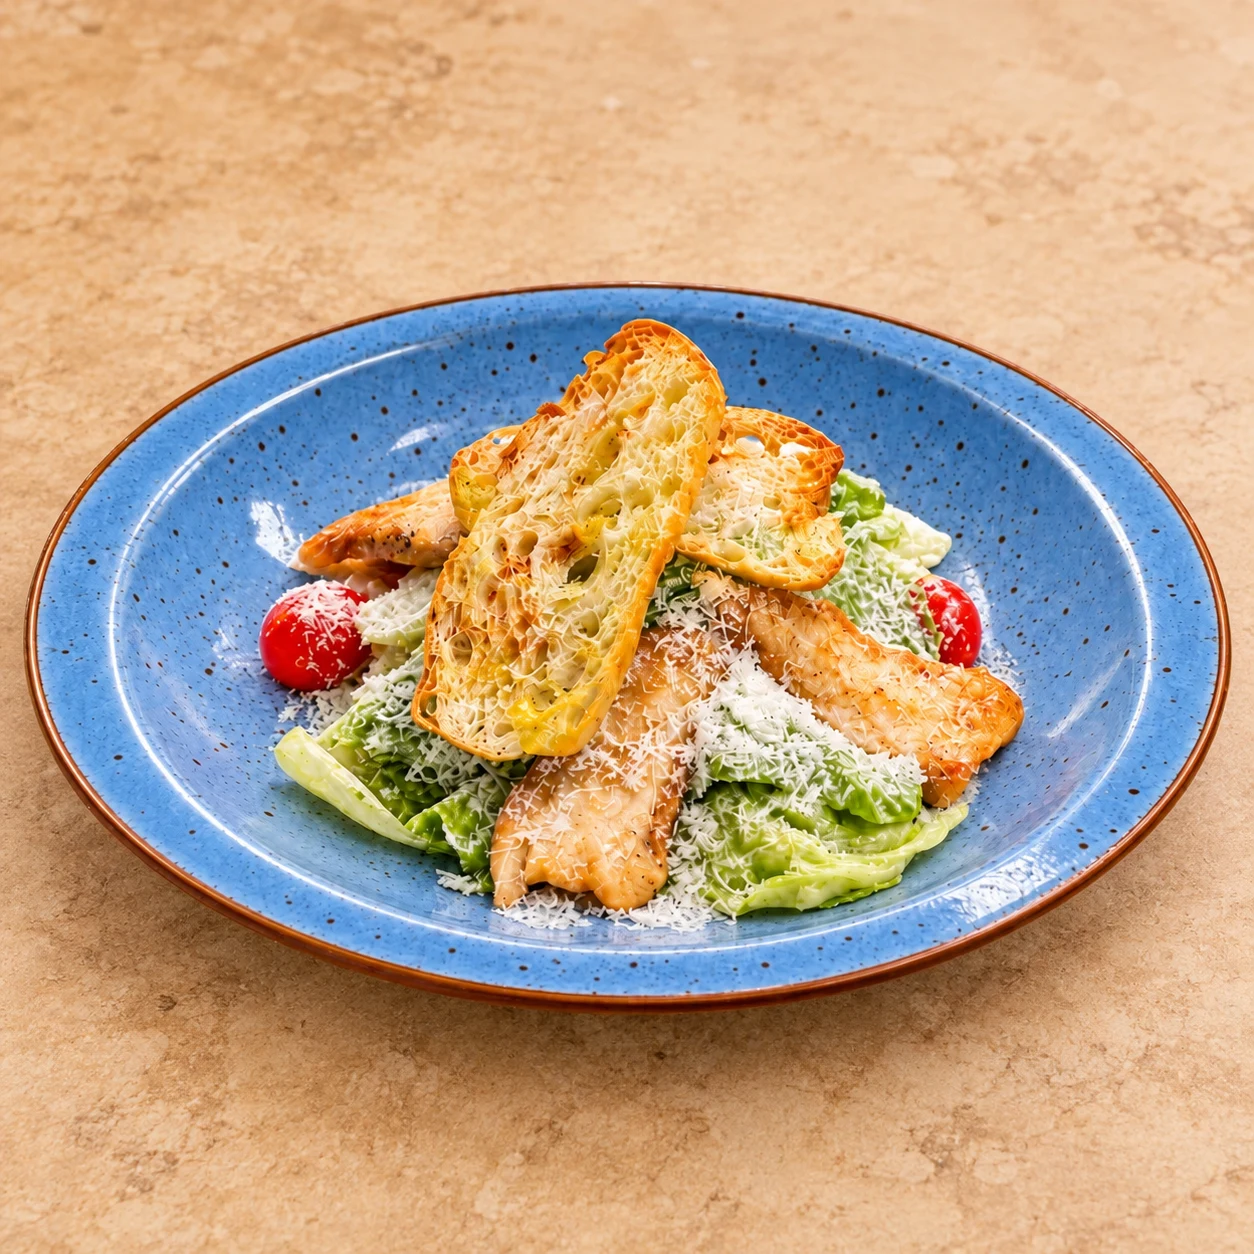
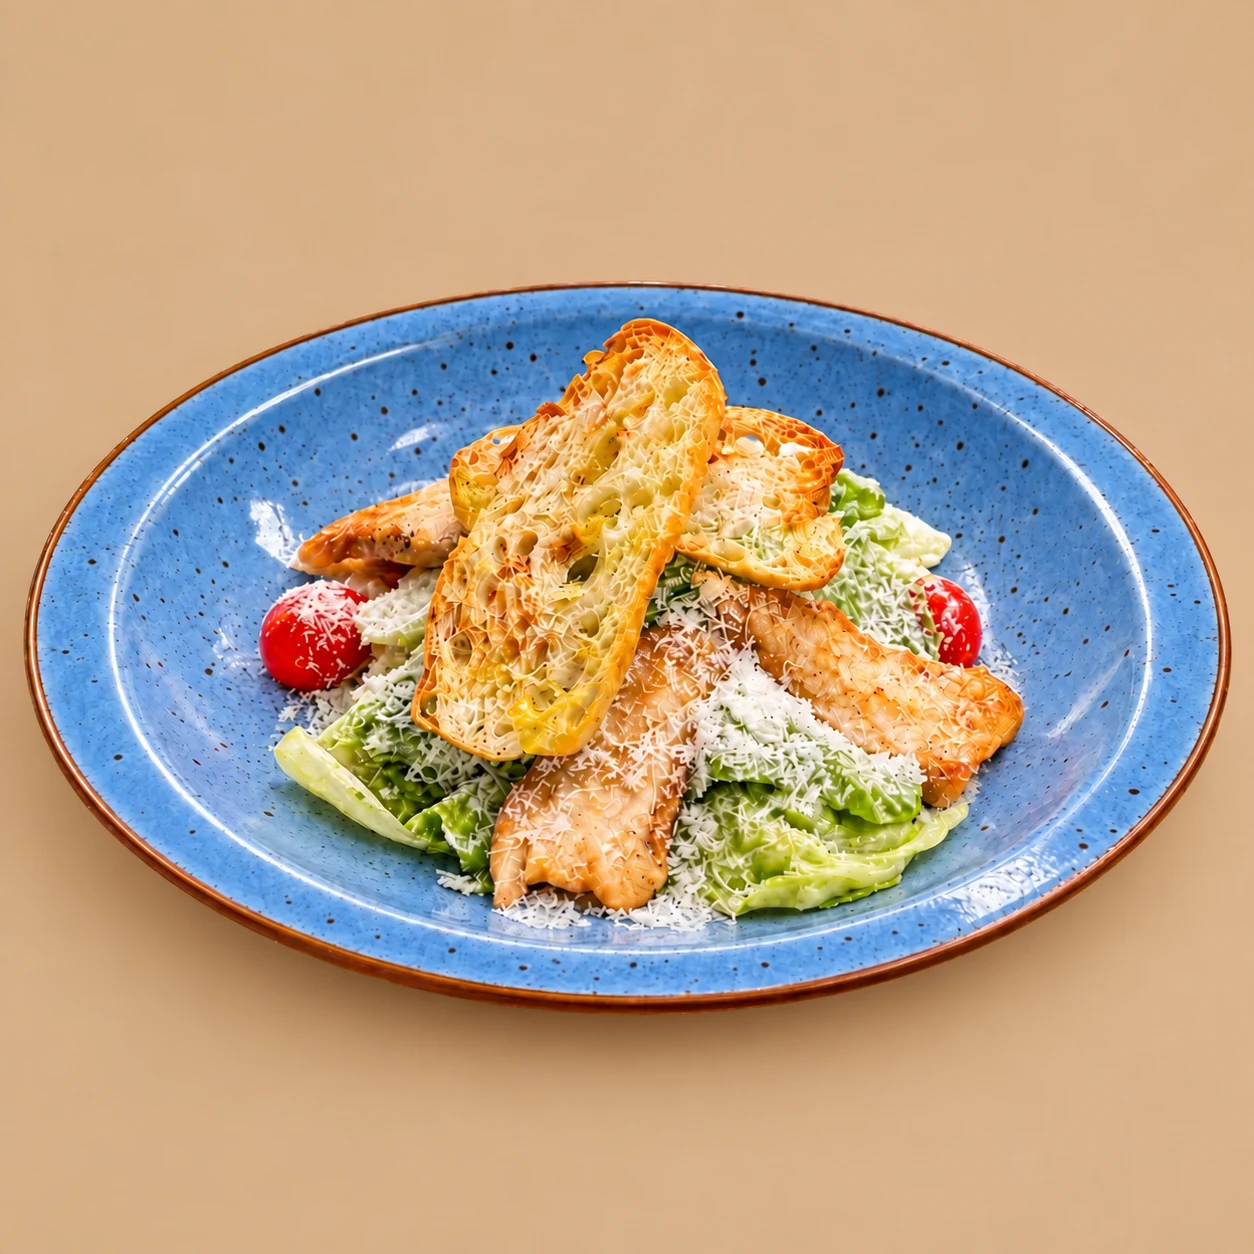
Match salad photo backgrounds to the menu

diff --git a/index.html b/index.html
@@ -344,35 +344,35 @@
           
           
           <ul class="dish-grid"><li class="dish dish-card" data-name="Цезарь с куриным филе">
-    <div class="dish-photo"><img src="./images/cards/caesar-chicken-square.webp" alt="Цезарь с куриным филе" width="1254" height="1254" loading="lazy" decoding="async"></div>
+    <div class="dish-photo"><img src="./images/cards/caesar-chicken-square.webp?v=20260921" alt="Цезарь с куриным филе" width="1254" height="1254" loading="lazy" decoding="async"></div>
     <div class="dish-details">
       <h4 class="dish-name">Цезарь с куриным филе</h4>
       <div class="dish-bottom"><span class="price">750 ₽</span></div>
     </div>
 
   </li><li class="dish dish-card" data-name="Цезарь с креветками">
-    <div class="dish-photo"><img src="./images/cards/caesar-shrimp-square.webp" alt="Цезарь с креветками" width="1254" height="1254" loading="lazy" decoding="async"></div>
+    <div class="dish-photo"><img src="./images/cards/caesar-shrimp-square.webp?v=20260921" alt="Цезарь с креветками" width="1254" height="1254" loading="lazy" decoding="async"></div>
     <div class="dish-details">
       <h4 class="dish-name">Цезарь с креветками</h4>
       <div class="dish-bottom"><span class="price">800 ₽</span></div>
     </div>
 
   </li><li class="dish dish-card" data-name="Греческий салат">
-    <div class="dish-photo"><img src="./images/cards/greek-salad-square.webp" alt="Греческий салат" width="1254" height="1254" loading="lazy" decoding="async"></div>
+    <div class="dish-photo"><img src="./images/cards/greek-salad-square.webp?v=20260921" alt="Греческий салат" width="1254" height="1254" loading="lazy" decoding="async"></div>
     <div class="dish-details">
       <h4 class="dish-name">Греческий салат</h4>
       <div class="dish-bottom"><span class="price">750 ₽</span></div>
     </div>
 
   </li><li class="dish dish-card" data-name="Салат с хрустящими баклажанами">
-    <div class="dish-photo"><img src="./images/cards/crispy-eggplant-salad-square.webp" alt="Салат с хрустящими баклажанами" width="1254" height="1254" loading="lazy" decoding="async"></div>
+    <div class="dish-photo"><img src="./images/cards/crispy-eggplant-salad-square.webp?v=20260921" alt="Салат с хрустящими баклажанами" width="1254" height="1254" loading="lazy" decoding="async"></div>
     <div class="dish-details">
       <h4 class="dish-name">Салат с хрустящими баклажанами</h4>
       <div class="dish-bottom"><span class="price">700 ₽</span></div>
     </div>
 
   </li><li class="dish dish-card" data-name="Деревенский салат">
-    <div class="dish-photo"><img src="./images/cards/country-salad-square.webp" alt="Деревенский салат" width="1254" height="1254" loading="lazy" decoding="async"></div>
+    <div class="dish-photo"><img src="./images/cards/country-salad-square.webp?v=20260921" alt="Деревенский салат" width="1254" height="1254" loading="lazy" decoding="async"></div>
     <div class="dish-details">
       <h4 class="dish-name">Деревенский салат</h4>
       <div class="dish-bottom"><span class="price">650 ₽</span></div>
